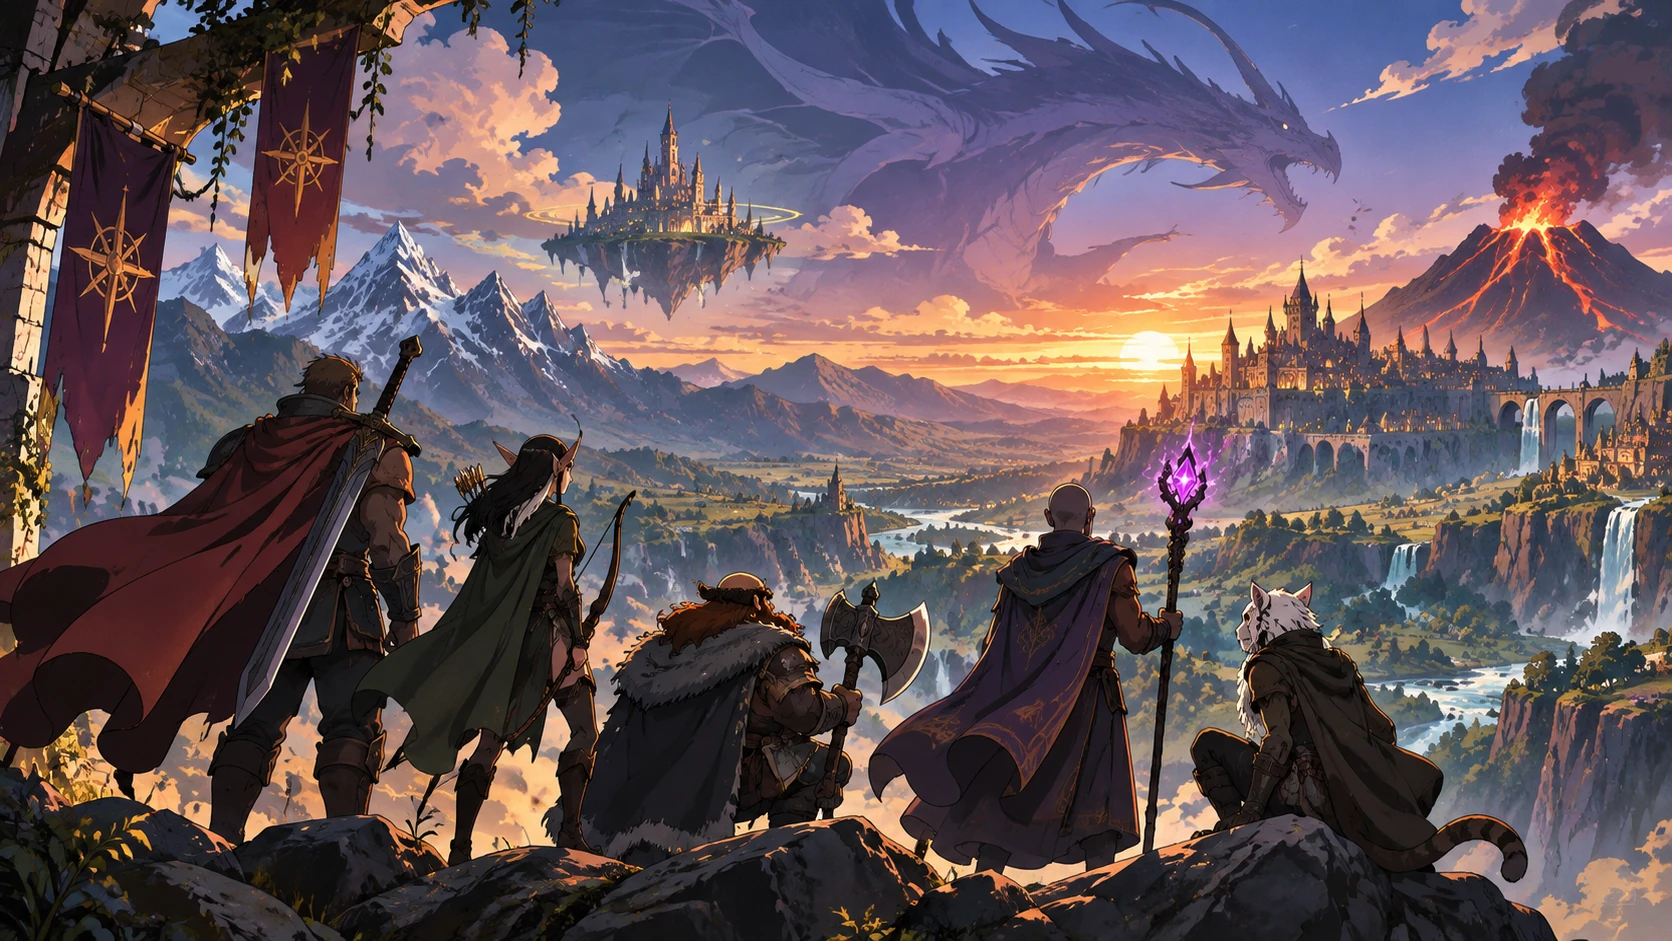
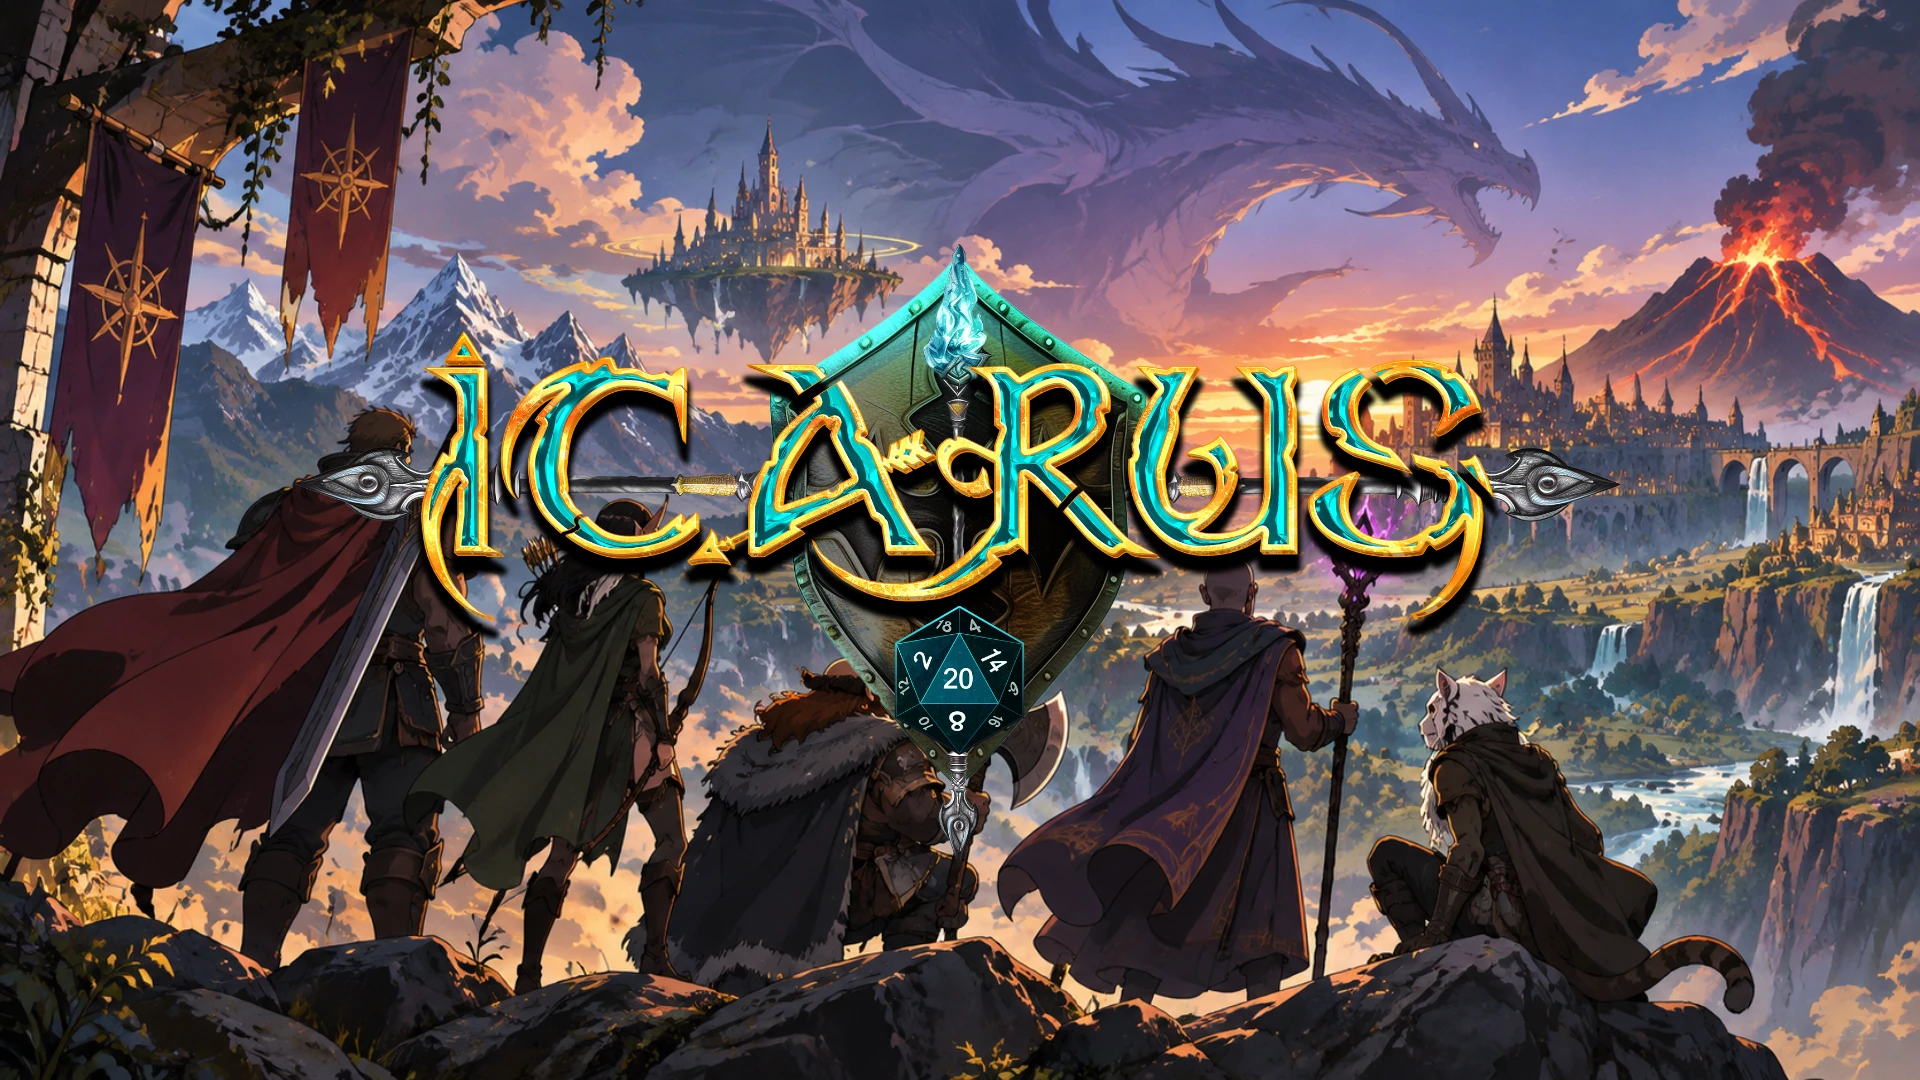
Papel de parede do sistema: imagem correta (1920×1080) (v0.25.2)

diff --git a/CHANGELOG.md b/CHANGELOG.md
@@ -1,5 +1,10 @@
 # Changelog — Icarus RPG (Foundry VTT)
 
+## 0.25.2
+
+### Papel de parede corrigido
+-  e  trocados pela imagem certa (1920×1080, com o logo Icarus). O cartão do sistema na tela de configuração continua apontando para o mesmo arquivo.
+
 ## 0.25.1
 
 ### Clérigo: Arma Consagrada no ataque
